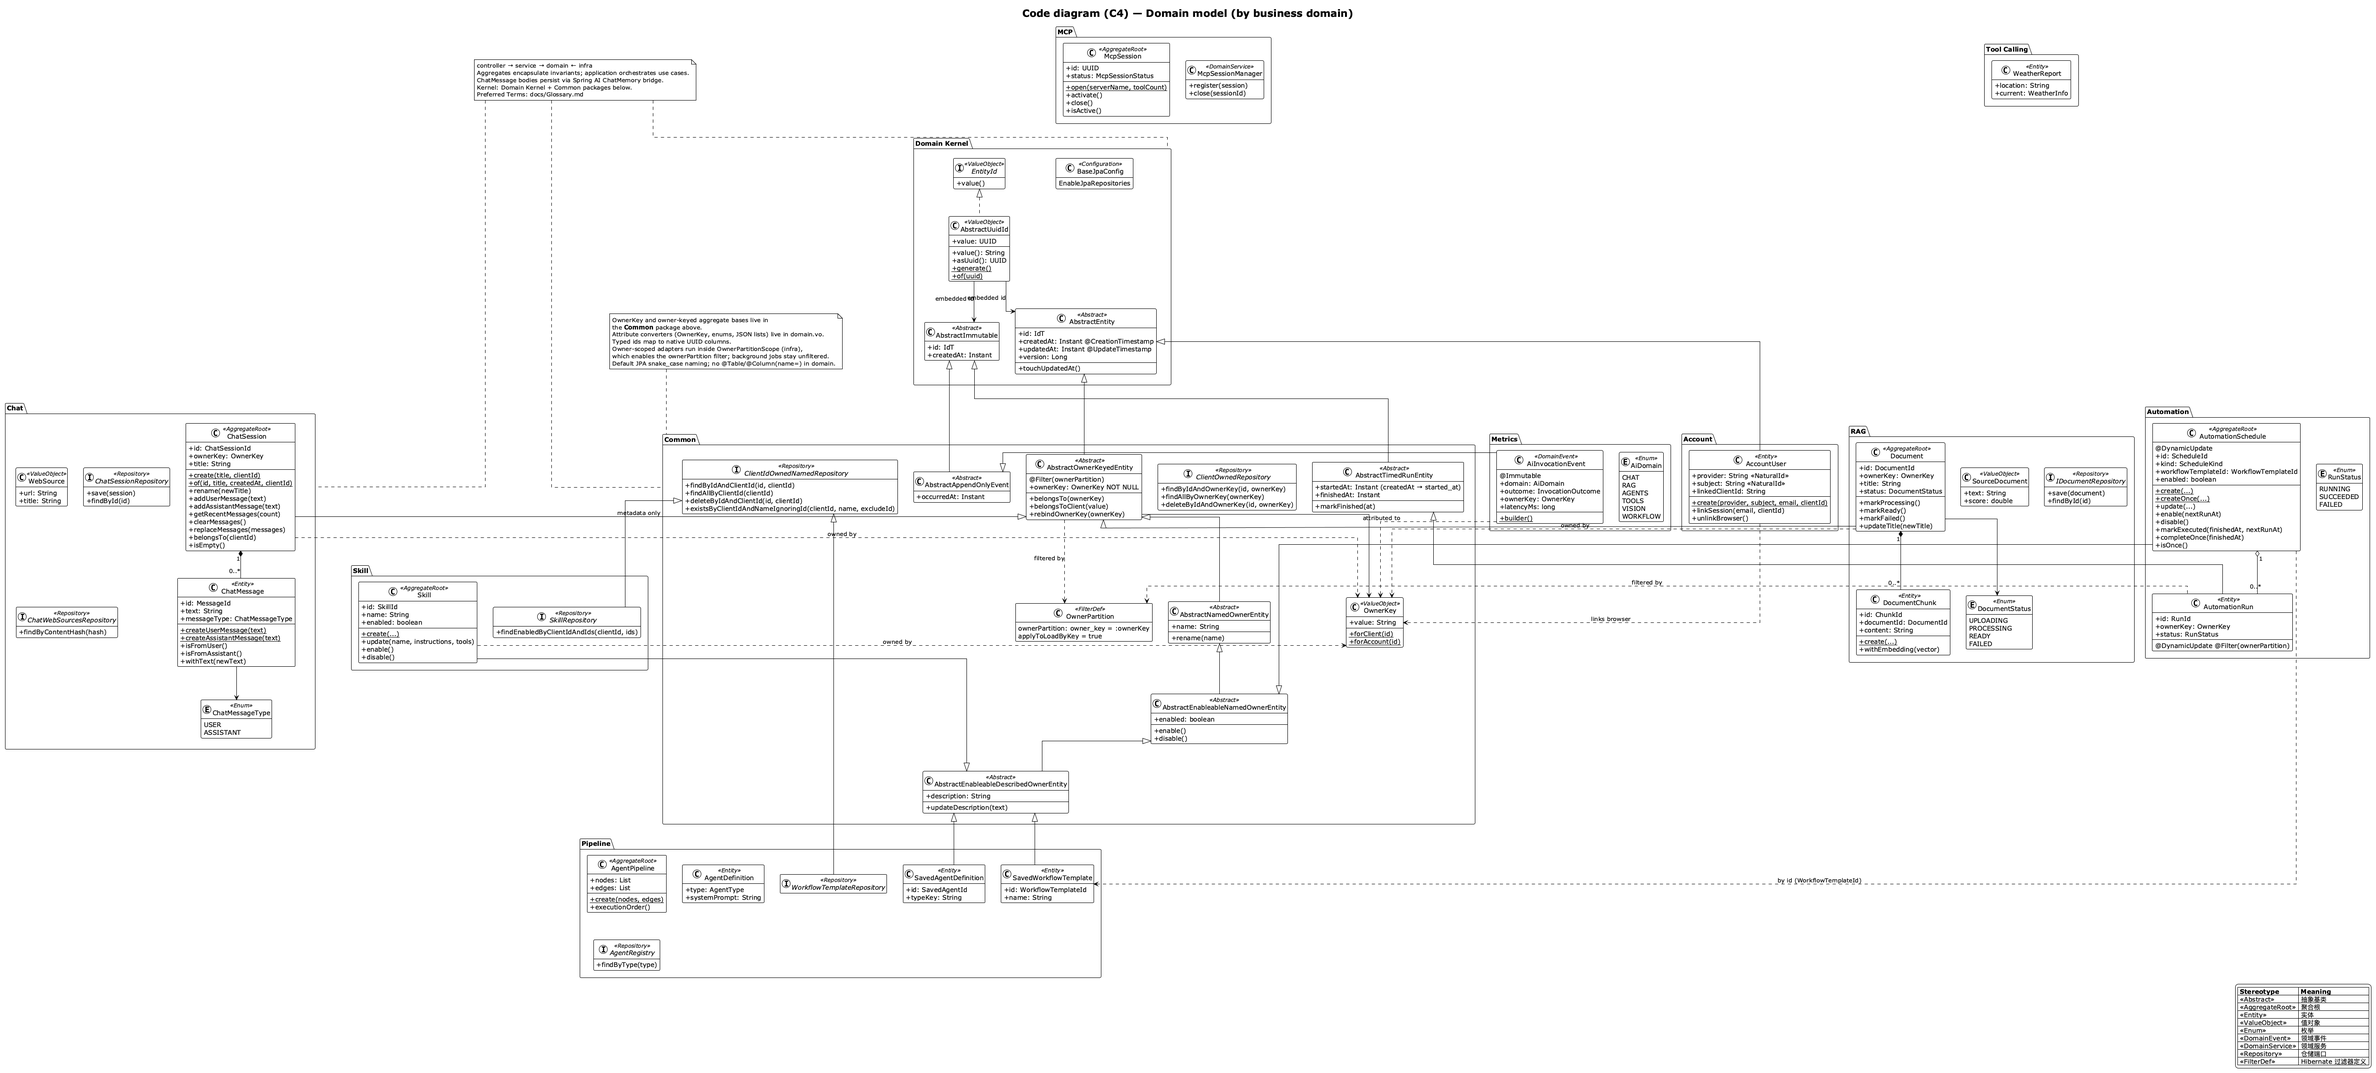
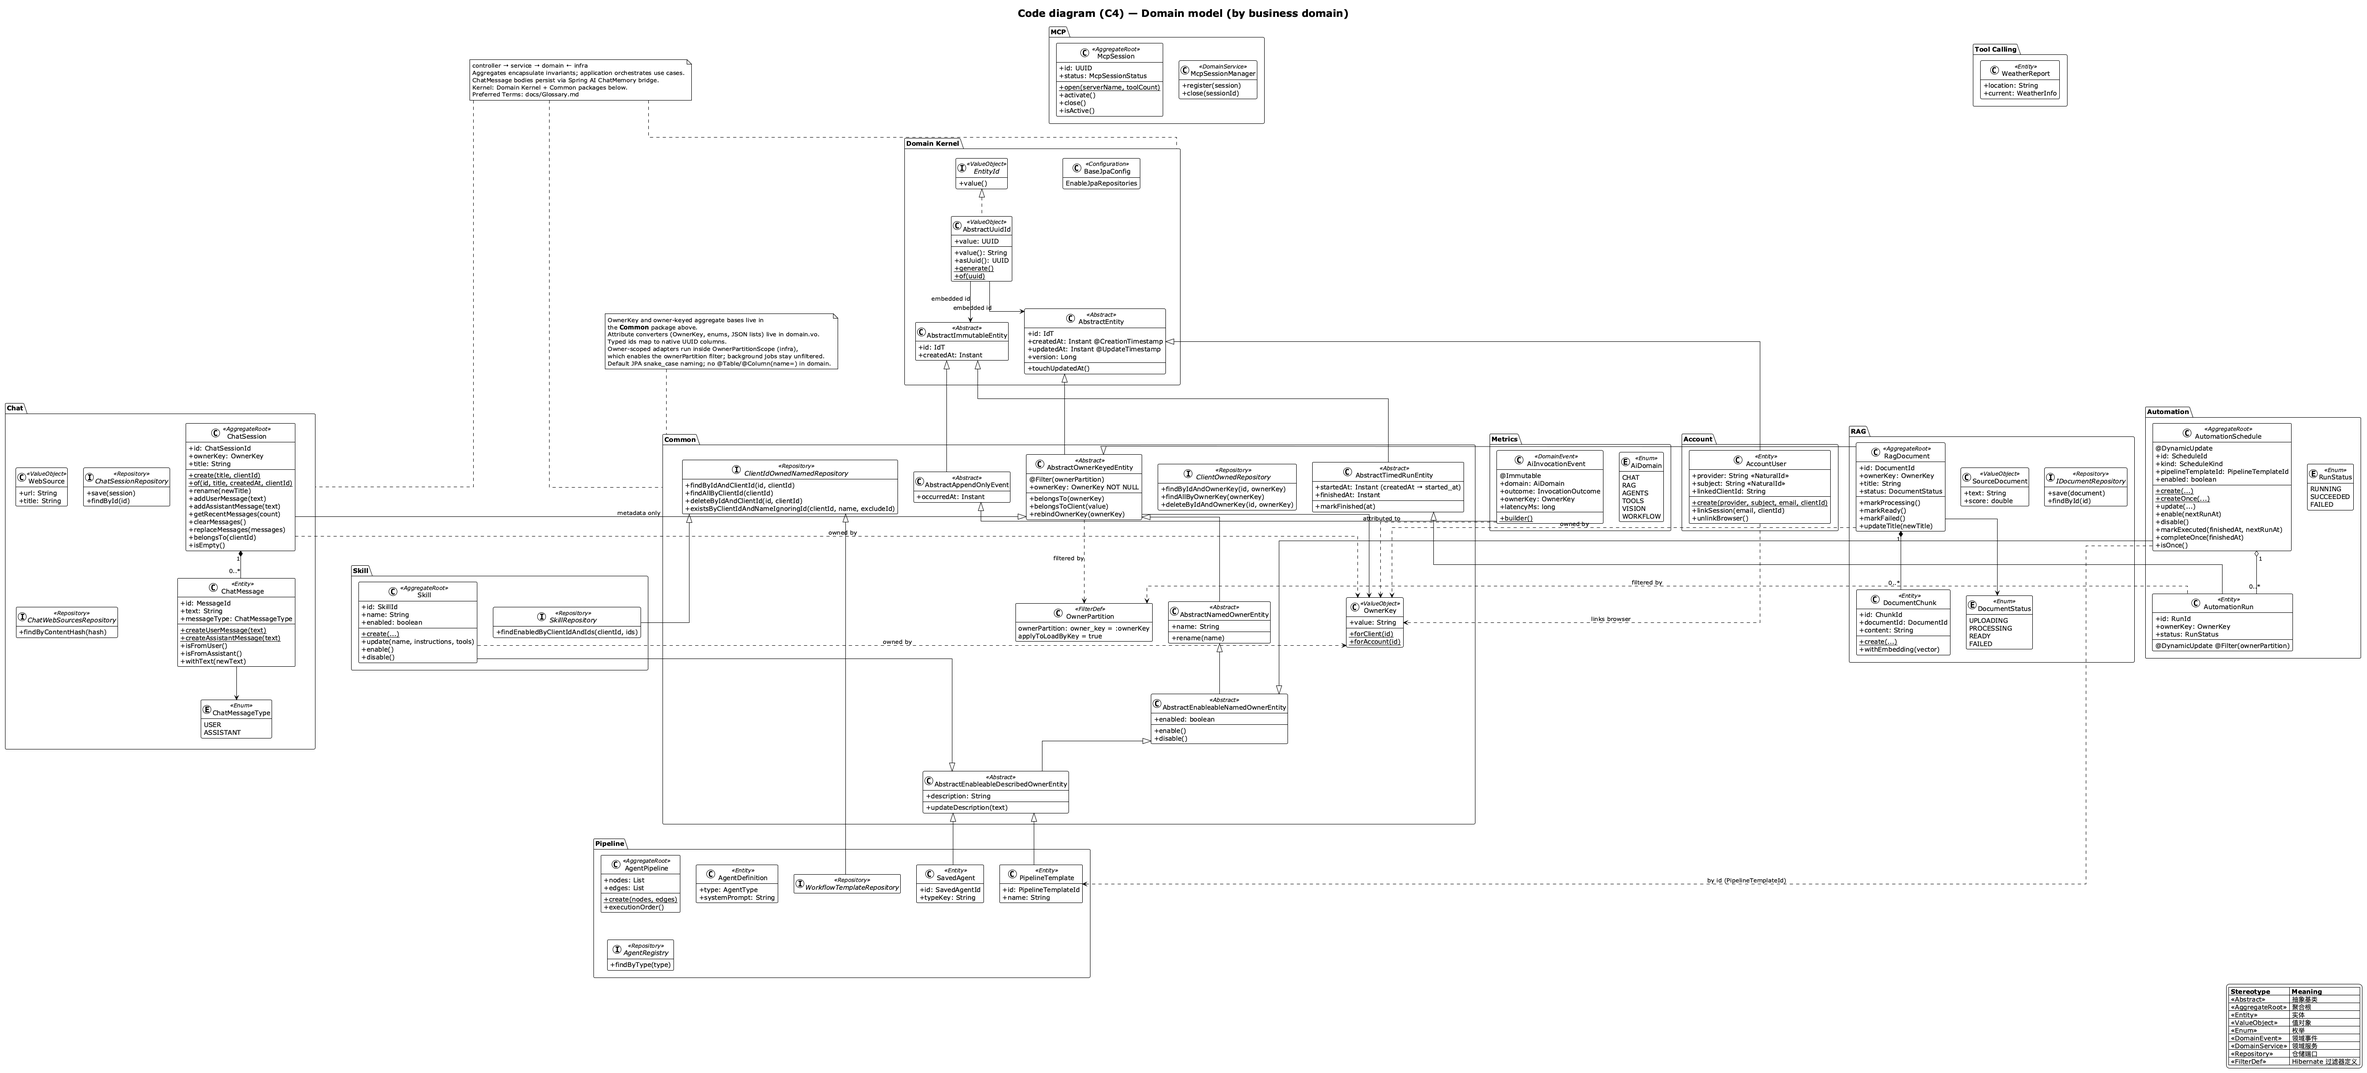
Define target names in the glossary (#517)
The naming pass renames services, gateways, entities and routes.
Recording the target language first keeps the following changes
reviewable against one agreed vocabulary instead of a moving one.

References:

- https://docs.oracle.com/javase/specs/jls/se25/html/jls-6.html#jls-6.1
- https://angular.dev/style-guide

diff --git a/ai/docs/Glossary.md b/ai/docs/Glossary.md
@@ -32,17 +32,17 @@ This document defines the project **Ubiquitous Language**. English terms are the
 
 | Preferred Term   | 中文        | Java Package      | Frontend Route          | API Prefix                                | Feature Flag                  | Notes                                 |
 | ---------------- | --------- | ----------------- | ----------------------- | ----------------------------------------- | ----------------------------- | ------------------------------------- |
-| Chat             | 对话        | `com.ai.chat`     | `/chat`, `/privacy`     | `/api/text`, `/api/sessions`, `/api/chat`, `/api/privacy` | —                             | UI under `app/chat/` + `app/privacy/` |
+| Chat             | 对话        | `com.ai.chat`     | `/chat`, `/privacy`     | `/api/chat`, `/api/chat/sessions`, `/api/privacy` | —                             | UI under `app/chat/` + `app/privacy/` |
 | Pipeline         | 工作流画布      | `com.ai.pipeline` | `/pipelines`            | `/api/pipelines`                          | `module-pipelines`            | Canvas DAG; per-node editable agent copies; multilingual builtin catalog |
 | Automation       | 定时自动化      | `com.ai.automation` | `/automations`        | `/api/automations`                        | `module-automations`          | Schedule saved workflows; email result summary |
 | Skill            | 技能指令包    | `com.ai.skill`    | `/skills`               | `/api/skills`                             | `module-skills`               | User-managed packs applied in Chat    |
 | RAG              | 知识问答      | `com.ai.rag`      | `/rag`                  | `/api/rag`                                | —                             | ETL interfaces in `domain.repository` |
 | Tool Calling     | 工具调用      | `com.ai.tools`    | —                       | `/api/tools`                              | —                             | Weather + Serper                      |
-| Analysis         | 结构化分析     | `com.ai.analysis` | —                       | `/api/chat/analyze`                       | —                             | No dedicated frontend route           |
+| Text Analysis    | 结构化分析     | `com.ai.textanalysis` | —                   | `/api/text-analysis`                      | —                             | No dedicated frontend route           |
 | Eval             | 对话质量评估    | `com.ai.eval`     | `/eval`                 | `/api/eval`                               | `module-eval`                 | LLM-as-a-Judge                        |
 | Image Generation | 图像生成      | `com.ai.image`    | `/generate/image`       | `/api/images`                             | —                             | UI under `app/generate/image/`        |
 | Image Analysis   | 图像分析      | `com.ai.vision`   | `/vision`               | `/api/vision`                             | `module-vision`               | Caption / Detect / OCR                |
-| Audio            | 语音        | `com.ai.audio`    | `/generate/tts`, `/asr` | `/api/audio`, `/ws/audio`                 | `module-audio-asr` (ASR only) | TTS always on                         |
+| Audio            | 语音        | `com.ai.audio`    | `/generate/tts`, `/speech-to-text` | `/api/audio`, `/ws/audio`                 | `module-audio-asr` (ASR only) | TTS always on                         |
 | MCP              | MCP       | `com.ai.mcp`      | `/mcp`                  | `/api/mcp`, `/api/mcp/client`             | `module-mcp`                  | Server + Client in one package        |
 | Workflow         | Workflow Lab 原语 | `com.ai.workflow` | —                       | `/api/workflows`                          | —                             | Educational Effective Agents APIs; ≠ product Pipeline/工作流 |
 | Generation       | 生成        | —                 | `/generate`             | —                                         | —                             | UI shell for image + TTS              |
@@ -196,12 +196,13 @@ Shared persistence and aggregate bases. Feature modules inherit these types inst
 | Agent Pipeline           | 工作流流水线     | User-authored multi-agent graph executed in topological order | Aggregate      | `AgentPipeline` (`com.ai.pipeline`)                | Canvas + `POST /api/pipelines/invoke/sse` |
 | Pipeline Node            | 流水线节点         | Graph node with editable agent snapshot                         | Value Object   | `AgentPipeline.PipelineNode`                       | Double-click edit: name / prompt / tools        |
 | Pipeline Edge            | 流水线边          | Directed handoff between nodes                                | Value Object   | `AgentPipeline.PipelineEdge`                       | —                                               |
-| Workflow Template        | 工作流模版        | Multilingual builtin or client-owned linear agentTypes + brief | Entity / Catalog | `WorkflowTemplate`, `SavedWorkflowTemplate`, `pipeline-templates/{lang}.json` | `GET/POST /api/pipelines/templates*` |
-| Pipeline Facade          | Pipeline 门面   | Application entry for list, invoke, supervisor, pipeline      | Facade         | `PipelineFacade`                                   | Passes `clientId` + `lang`                      |
-| Automation Schedule      | 自动化日程        | Client-owned CRON or one-shot schedule + timezone + saved workflow + recipient email | Aggregate      | `AutomationSchedule`, `ScheduleKind` (`com.ai.automation`) | Due scan; `/api/automations/schedules`; ONCE auto-disables after run |
+| Pipeline Template        | 工作流模版        | Multilingual builtin or owner-saved linear agentTypes + brief | Entity / Catalog | `PipelineTemplateDefinition` (builtin), `PipelineTemplate` (saved, table `pipeline_template`), `pipeline-templates/{lang}.json` | `GET/POST /api/pipelines/templates*`; formerly Workflow Template |
+| Saved Agent              | 已保存 Agent     | Owner-saved agent definition in the agent library             | Entity         | `SavedAgent` (table `saved_agent`)                 | `/api/pipelines/agents`; formerly Saved Agent Definition |
+| Pipeline Service         | Pipeline 服务   | Application entry for list, invoke, supervisor, pipeline      | Application Service | `PipelineService`                             | Passes Owner Key + `lang`                       |
+| Automation Schedule      | 自动化日程        | Client-owned CRON or one-shot schedule + timezone + saved Pipeline Template + recipient email | Aggregate      | `AutomationSchedule`, `ScheduleKind` (`com.ai.automation`) | Due scan; `/api/automations/schedules`; ONCE auto-disables after run |
 | Automation Run           | 自动化运行记录     | One execution attempt with status and email outcome           | Entity         | `AutomationRun`                                    | SUCCESS / FAILED / SKIPPED                      |
 | Email Gateway            | 邮件网关          | Outbound transactional email (Resend HTTP API; optional SMTP); HTML + plain text | Repository     | `EmailGateway` → `ResendEmailGateway` / `SmtpEmailGateway` / `LoggingEmailGateway`; `AutomationMailFormatter` | Prod: Resend (`APP_MAIL_*`); local default logs only |
-| Orchestrator Workers     | 编排用例          | Runs Worker Agents according to a routing or pipeline plan    | Use Case       | `OrchestratorWorkersUseCase`                       | Prefers node snapshot prompt/tools when present         |
+| Pipeline Orchestration   | 编排服务          | Runs Worker Agents according to a routing or pipeline plan    | Application Service | `PipelineOrchestrationService`                | Prefers node snapshot prompt/tools when present         |
 | Supervisor Router        | Supervisor 路由 | Chooses next Agent / subtasks for a user message              | Application    | `SupervisorRouter`, `SpringAiSupervisorRouter`     | Workers exclude supervisor               |
 | Worker Agent Invoker     | Worker 调用器    | Invokes a single Worker Agent with streaming                  | Application    | `WorkerAgentInvoker`, `SpringAiWorkerAgentInvoker` | Tools from `toolKeys` whitelist                 |
 | Tool Call Markup Filter  | 工具标记过滤器   | Strips DeepSeek DSML tool markup from model text              | Utility        | `ToolCallMarkupFilter`, `SanitizingChatMemory`     | Chat SSE, ChatMemory, Pipeline workers             |
@@ -228,7 +229,7 @@ Shared persistence and aggregate bases. Feature modules inherit these types inst
 | Chain Workflow               | 链式工作流        | Sequential LLM steps; each output feeds the next        | Domain Service | `ChainWorkflow`, `SpringAiChainWorkflow`               | Anthropic Effective Agents / Spring AI examples    |
 | Parallelization Workflow     | 并行化工作流       | Concurrent LLM calls over independent items             | Domain Service | `ParallelizationWorkflow`, `SpringAiParallelizationWorkflow` | Sectioning / voting                              |
 | Routing Workflow             | 路由工作流        | Classify input then run a specialized prompt            | Domain Service | `RoutingWorkflow`, `SpringAiRoutingWorkflow`           | Structured classification via `.entity()`          |
-| Orchestrator-Workers Workflow | 编排-工人工作流    | Plan subtasks, parallel workers, synthesize             | Domain Service | `OrchestratorWorkersWorkflow`, `SpringAiOrchestratorWorkersWorkflow` | Distinct from Agent `OrchestratorWorkersUseCase` |
+| Orchestrator-Workers Workflow | 编排-工人工作流    | Plan subtasks, parallel workers, synthesize             | Domain Service | `OrchestratorWorkersWorkflow`, `SpringAiOrchestratorWorkersWorkflow` | Distinct from Pipeline `PipelineOrchestrationService` |
 | Evaluator-Optimizer Workflow | 评估-优化工作流     | Generator/evaluator loop until PASS or max iterations   | Domain Service | `EvaluatorOptimizerWorkflow`, `SpringAiEvaluatorOptimizerWorkflow` | Returns solution + chain of thought            |
 
 
@@ -239,7 +240,7 @@ Shared persistence and aggregate bases. Feature modules inherit these types inst
 
 | Preferred Term (English) | 中文       | Definition                                          | Type                 | Code Mapping                              | Notes                                                               |
 | ------------------------ | -------- | --------------------------------------------------- | -------------------- | ----------------------------------------- | ------------------------------------------------------------------- |
-| Document                 | 文档       | User-uploaded knowledge source file (TXT/PDF)       | Entity               | `Document`                                | Full lifecycle                                                      |
+| Rag Document             | 文档       | User-uploaded knowledge source file (TXT/PDF)       | Entity               | `RagDocument` (table `rag_document`)      | Full lifecycle; prefix avoids clash with Spring AI `Document`       |
 | Document ID              | 文档标识     | Unique identifier of a document                     | Value Object         | `DocumentId`                              | —                                                                   |
 | Document Status          | 文档状态     | Processing state from upload to ready               | Enum                 | `DocumentStatus`                          | See state machine                                                   |
 | Document Chunk           | 文档分块     | Smallest retrieval unit after document splitting    | Entity               | `DocumentChunk`                           | Includes embedding vector                                           |
@@ -370,7 +371,7 @@ Package: `com.ai.mcp` (Server + Client).
 
 ---
 
-## 11. Analysis | 结构化分析
+## 11. Text Analysis | 结构化分析
 
 
 | Preferred Term (English) | 中文    | Definition                                          | Type             | Code Mapping                      | Notes                       |
@@ -456,10 +457,9 @@ UI shell only (no dedicated Java package). Routes under `/generate` host **Image
 | Entity                   | 实体   | Domain object with identity and mutable lifecycle                                     | Architecture | `ChatMessage`, `Document`, `AgentDefinition`                  | Distinguished by ID                         |
 | Value Object             | 值对象  | Immutable object compared by value, no standalone identity                            | Architecture | `ChatSessionId`, `DocumentId`, `SourceDocument`, `AgentType`  | Use `record` or factory methods             |
 | Domain Service           | 领域服务 | Stateless domain logic that does not belong to a single entity                        | Architecture | `LanguageDetectionService`                                    | Cross-entity operations                     |
-| Use Case                 | 用例   | Application-layer orchestration of domain objects and repositories                    | Architecture | `RagChatUseCase`, `ChatUseCase`, `OrchestratorWorkersUseCase` | No business-rule details                    |
-| Facade                   | 门面   | Simplified application entry point                                                    | Architecture | `PipelineFacade`, `ToolsFacade`, `ImageFacade`, `AudioFacade`    | Coordinates use cases                       |
-| Repository               | 仓储   | Persistence or outbound capability abstraction for the domain                         | Architecture | `ChatSessionRepository`, `DocumentReader`, `AgentRegistry`    | Interface in domain, impl in infrastructure |
-| Adapter                  | 适配器  | Infrastructure implementation of a repository / outbound contract                     | Architecture | `OllamaEmbeddingAdapter`, `SerperWebSearchAdapter`            | Lives in `infrastructure/`                  |
+| Application Service      | 应用服务 | Application-layer orchestration of domain objects, repositories and gateways          | Architecture | `RagChatService`, `ChatService`, `PipelineService`            | `*Service` in `service/`; no business-rule details |
+| Repository               | 仓储   | Persistence abstraction for an aggregate                                              | Architecture | `ChatSessionRepository`, `DocumentRepository`                 | Interface in `domain/repository`, impl in `infra/` (`Jpa*`, `Jdbc*`, `H2*`) |
+| Gateway                  | 网关   | Outbound call to an external system (LLM, TTS, embedding, email, MCP)                 | Architecture | `TextToSpeechGateway`, `TextEmbeddingGateway`, `EmailGateway` | Interface in `domain/repository`, impl in `infra/` named by technology |
 | Streaming (SSE)          | 流式响应 | Real-time AI output via Server-Sent Events                                            | Technical    | Chat / RAG / Agent SSE endpoints                              | Shared frontend `sse-client`                |
 | Provider                 | 提供商  | LLM or AI service vendor (e.g. OpenAI, Ollama)                                        | Business     | Frontend `selectedProvider`                                   | User-selectable model source                |
 | Domain Exception         | 领域异常 | Exception representing a business rule violation                                      | Architecture | `ChatSessionNotFoundException`, `AgentNotFoundException`      | Mapped to HTTP 4xx                          |
@@ -637,7 +637,7 @@ References:
 | -------------------------------------------- | ---------------------------- | ----------------------------------------------------------------------------- |
 | chat history                                 | **Chat Session**             | Aggregate root containing multiple messages                                   |
 | chat content                                 | **Chat Message**             | Single user/assistant message                                                 |
-| knowledge base file                          | **Document**                 | Uploaded file in RAG context                                                  |
+| knowledge base file                          | **Rag Document**             | Uploaded file in RAG context                                                  |
 | knowledge base                               | **Document** collection      | RAG context; not a separate domain object                                     |
 | snippet / paragraph                          | **Document Chunk**           | Smallest RAG retrieval unit                                                   |
 | search result                                | **Source Document**          | RAG retrieval hit                                                             |
@@ -659,6 +659,10 @@ References:
 | RAG ETL Domain                               | **RAG** (+ ETL Pipeline)     | Not a separate bounded context                                                |
 | `com.ai.mcp.server` / `.client` packages     | `**com.ai.mcp`**             | Single package in code                                                        |
 | `domain.port`                                | `**domain.repository`**      | Project architecture rule                                                     |
+| `*UseCase` / `*Facade` / `*Impl` classes     | **Application Service** (`*Service`) | One class per service; no interface + `Impl` pair                     |
+| `*Adapter` / `I*` interfaces                 | **Repository** / **Gateway** | Name implementations by technology (`JpaDocumentRepository`)                  |
+| Workflow Template (Pipeline)                 | **Pipeline Template**        | Workflow names only the Effective Agents patterns (`com.ai.workflow`)         |
+| client id (inside service / domain)          | **Owner Key**                | Client id names only the browser identity cookie                              |
 | stats / statistics (UI)                      | **KPI** / **Metric**         | Prefer BI Preferred Terms on Metrics pages                                    |
 | chart data (domain noun)                     | **Time Series** / **Categorical Series** | Charts are presentation; name the measure series                    |
 | log row / telemetry row                      | **Fact Event** / **AI Invocation Event** | Metrics facts are domain events, not raw logs                       |
